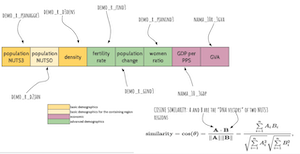
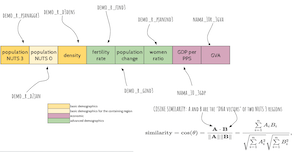
Proofreading from EU Publication Office

diff --git a/web/index.html b/web/index.html
@@ -5109,7 +5109,7 @@
 
 
 
-              <br/>[1] EU Twinnings uses data from <a href="https://ec.europa.eu/eurostat">Eurostat</a> based on the <a href="https://ec.europa.eu/eurostat/web/nuts/background">Nomenclature of Territorial Units for Statistics (NUTS) 2021</a>. The data is available via <a href="http://data.europa.eu">data.europa.eu</a>. See the <a href="credits.html">credits</a> page for full details.
+              <br/>[1] EU Twinnings uses data from <a href="https://ec.europa.eu/eurostat">Eurostat</a> based on the <a href="https://ec.europa.eu/eurostat/web/nuts/background">nomenclature of territorial units for statistics (NUTS) 2021</a>. The data is available via the official portal for European data(<a href="http://data.europa.eu">data.europa.eu</a>). See the <a href="credits.html">credits</a> page for full details.
 
               </div>
             </div>

diff --git a/web/region.php b/web/region.php
@@ -1739,7 +1739,7 @@
                   <i class="material-icons opacity-10">arrow_circle_up</i>
                 </div>
                 <div class="text-end pt-1">
-                  <p class="text-sm mb-0 text-capitalize">Most similar</p>
+                  <p class="text-sm mb-0">Most similar</p>
                   <h4 class="mb-0">Overall</h4>
                 </div>
               </div>
@@ -1860,7 +1860,7 @@
                 <i class="material-icons opacity-10 fa-rotate-180">arrow_circle_up</i>
               </div>
               <div class="text-end pt-1">
-                <p class="text-sm mb-0 text-capitalize">Least similar </p>
+                <p class="text-sm mb-0">Least similar </p>
                 <h4 class="mb-0">Overall</h4>
               </div>
             </div>
@@ -1979,7 +1979,7 @@
             <i class="material-icons opacity-10">arrow_circle_up</i>
           </div>
           <div class="text-end pt-1">
-            <p class="text-sm mb-0 text-capitalize">Most similar</p>
+            <p class="text-sm mb-0">Most similar</p>
             <h4 class="mb-0">Same country</h4>
           </div>
         </div>
@@ -2099,7 +2099,7 @@
           <i class="material-icons opacity-10 fa-rotate-180">arrow_circle_up</i>
         </div>
         <div class="text-end pt-1">
-          <p class="text-sm mb-0 text-capitalize">Least similar </p>
+          <p class="text-sm mb-0">Least similar </p>
           <h4 class="mb-0">Same country</h4>
         </div>
       </div>
@@ -2220,7 +2220,7 @@
             <i class="material-icons opacity-10">arrow_circle_up</i>
           </div>
           <div class="text-end pt-1">
-            <p class="text-sm mb-0 text-capitalize">Most similar</p>
+            <p class="text-sm mb-0">Most similar</p>
             <h4 class="mb-0">Different country</h4>
           </div>
         </div>
@@ -2340,7 +2340,7 @@
           <i class="material-icons opacity-10 fa-rotate-180">arrow_circle_up</i>
         </div>
         <div class="text-end pt-1">
-          <p class="text-sm mb-0 text-capitalize">Least similar </p>
+          <p class="text-sm mb-0">Least similar </p>
           <h4 class="mb-0">Different country</h4>
         </div>
       </div>
@@ -2460,7 +2460,7 @@
             <i class="material-icons opacity-10">arrow_circle_up</i>
           </div>
           <div class="text-end pt-1">
-            <p class="text-sm mb-0 text-capitalize">Most similar</p>
+            <p class="text-sm mb-0">Most similar</p>
             <h4 class="mb-0">Higher GDPPPS</h4>
           </div>
         </div>
@@ -2580,7 +2580,7 @@
           <i class="material-icons opacity-10 fa-rotate-180">arrow_circle_up</i>
         </div>
         <div class="text-end pt-1">
-          <p class="text-sm mb-0 text-capitalize">Least similar </p>
+          <p class="text-sm mb-0">Least similar </p>
           <h4 class="mb-0">Higher GDPPPS</h4>
         </div>
       </div>
@@ -2702,7 +2702,7 @@
             <i class="material-icons opacity-10">arrow_circle_up</i>
           </div>
           <div class="text-end pt-1">
-            <p class="text-sm mb-0 text-capitalize">Most similar</p>
+            <p class="text-sm mb-0">Most similar</p>
             <h4 class="mb-0">Higher GVA</h4>
           </div>
         </div>
@@ -2821,7 +2821,7 @@
           <i class="material-icons opacity-10 fa-rotate-180">arrow_circle_up</i>
         </div>
         <div class="text-end pt-1">
-          <p class="text-sm mb-0 text-capitalize">Least similar </p>
+          <p class="text-sm mb-0">Least similar </p>
           <h4 class="mb-0">Higher GVA</h4>
         </div>
       </div>
@@ -3266,7 +3266,7 @@
 
 
         drawDonutChart(chartitem, similarityobject['similarity']);
-        $(textitem).html("<a class='linktonuts' href='region.php?nutsid=" + targetcode + "'>" + similarityobject['name'] + " [" + similarityobject['country'] + "]" +" </a>" + "<br/>" + (100*similarityobject['similarity']).toFixed(2) + "%");
+        $(textitem).html("<a class='linktonuts' href='region.php?nutsid=" + targetcode + "'>" + similarityobject['name'] + " [" + similarityobject['country'] + "]" +" </a>" + "<br/>" + (100*similarityobject['similarity']).toFixed(2) + " %");
 
 
         fillModal(itemtype, similarityitemname, 0);
@@ -3420,11 +3420,11 @@ var myChart = new Chart(ctx, {
     const data = {
         labels: [
           'Population',
-          'Population NUTS0',
+          'Population NUTS 0',
           'Density',
           'Fertility',
           'Population change',
-          'Women:Men Ratio',
+          'Women:Men ratio',
           'GDPPPS',
           'GVA'
         ],
@@ -3621,7 +3621,7 @@ function generate_d3_map() {
       .duration(100)
       .style("opacity", .9);
 
-      div.html(d.properties.NUTS_NAME + "<br/>" + similarity*100   + "%")
+      div.html(d.properties.NUTS_NAME + "<br/>" + similarity*100   + " %")
       .style("left", (d3.event.pageX) + "px")
       .style("top", (d3.event.pageY - 28) + "px");
     })
@@ -3775,7 +3775,7 @@ function generate_d3_map_old() {
       .duration(100)
       .style("opacity", .9);
 
-      div.html(d.properties.NUTS_NAME + "<br/>" + similarity*100   + "%")
+      div.html(d.properties.NUTS_NAME + "<br/>" + similarity*100   + " %")
       .style("left", (d3.event.pageX) + "px")
       .style("top", (d3.event.pageY - 28) + "px");
     })
